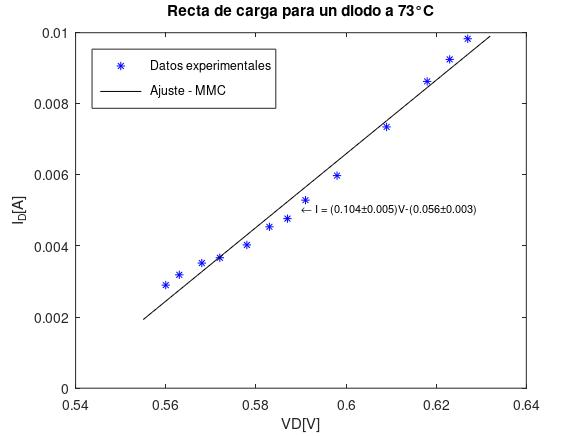
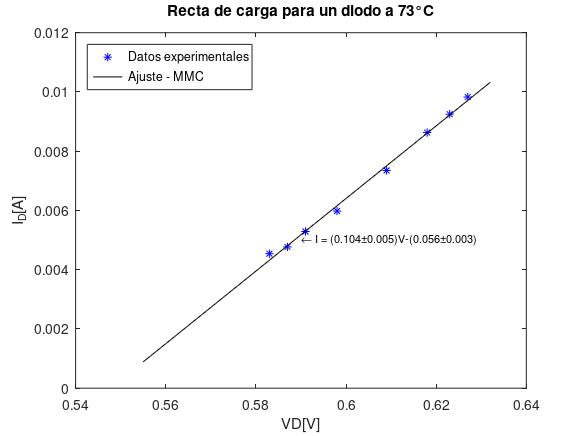
Se realizan correcciones practica 4 EA. Se finalizan metodos 2 y 3 practica 3 EFM para el caso 365 parte 1.

diff --git a/EFM20212/3/parte1/365/metodo3.m b/EFM20212/3/parte1/365/metodo3.m
@@ -1,0 +1,57 @@
+clear all; close all;
+Vr = [0	0	-0.02	-0.04	-0.04	-0.06	-0.07	-0.09	-0.09	-0.11	-0.11	-0.13	-0.14	-0.15	-0.17	-0.19	-0.2	-0.22	-0.23	-0.24	-0.25	-0.25	-0.26	-0.27	-0.27	-0.28	-0.29	-0.3	-0.31	-0.32	-0.33	-0.34	-0.34	-0.35	-0.35	-0.35	-0.36	-0.36	-0.37	-0.38	-0.38	-0.38	-0.39	-0.39	-0.41	-0.41	-0.42	-0.43	-0.43	-0.45	-0.46	-0.46	-0.46	-0.47	-0.47	-0.48	-0.5	-0.51	-0.51	-0.52	-0.52	-0.53	-0.54	-0.55	-0.56	-0.57	-0.57	-0.58	-0.59	-0.6	-0.61	-0.62	-0.63	-0.64	-0.65	-0.66	-0.67	-0.68	-0.68	-0.69	-0.7	-0.71	-0.72	-0.72	-0.73	-0.74	-0.75	-0.76	-0.77	-0.78	-0.79	-0.79	-0.8	-0.81	-0.82	-0.83	-0.84	-0.85	-0.86	-0.87	-0.88	-0.9	-0.91	-0.92	-0.93	-0.95	-0.96	-0.97	-0.98	-0.99	-1	-1.02	-1.03	-1.04	-1.05	-1.06	-1.07	-1.09	-1.1	-1.11	-1.12	-1.13	-1.14	-1.16	-1.18	-1.19	-1.19	-1.19	-1.2	-1.21	-1.23	-1.24	-1.25	-1.26	-1.26	-1.28	-1.29	-1.3	-1.31	-1.32	-1.34	-1.36	-1.37	-1.38	-1.39	-1.4	-1.41	-1.43	-1.44	-1.45	-1.46	-1.47	-1.49	-1.5	-1.5	-1.51	-1.52	-1.53	-1.55	-1.55	-1.57	-1.58	-1.59	-1.6	-1.6	-1.61	-1.62	-1.63	-1.65	-1.66	-1.67	-1.68	-1.69	-1.71	-1.72	-1.74	-1.76	-1.77	-1.79	-1.8	-1.82	-1.84	-1.85	-1.87	-1.88	-1.9	-1.91	-1.92	-1.95	-1.96	-1.97	-1.98	-1.99	-2.01	-2.02	-2.04	-2.05	-2.06	-2.08	-2.09	-2.11	-2.12	-2.14	-2.16	-2.17	-2.18	-2.19	-2.22	-2.23	-2.25	-2.26	-2.27	-2.29	-2.3	-2.31	-2.33	-2.34	-2.36	-2.37	-2.39	-2.39	-2.41	-2.42	-2.44	-2.45	-2.47	-2.49	-2.5	-2.52	-2.53	-2.56	-2.56	-2.58	-2.6	-2.61	-2.63	-2.64	-2.66	-2.67	-2.69	-2.7	-2.72	-2.74	-2.76	-2.77	-2.78	-2.8	-2.81	-2.83	-2.83	-2.85	-2.86	-2.88	-2.9	-2.92	-2.94	-2.95	-2.98	-2.98	-3	-3.02	-3.03	-3.05	-3.06	-3.08	-3.09	-3.1	-3.12	-3.13	-3.14	-3.16	-3.17	-3.18	-3.18	-3.2	-3.21	-3.23	-3.23	-3.25	-3.26	-3.28	-3.3	-3.31	-3.33	-3.35	-3.36	-3.37	-3.38	-3.4	-3.41	-3.43	-3.44	-3.45	-3.48	-3.49	-3.51	-3.52	-3.54	-3.56	-3.57	-3.58	-3.59	-3.61	-3.61	-3.63	-3.64	-3.66	-3.68	-3.69	-3.71	-3.72	-3.74	-3.75	-3.77	-3.78	-3.8	-3.81	-3.83	-3.84	-3.86	-3.87	-3.89	-3.91	-3.93	-3.94	-3.96	-3.97];
+I  = [94.9	94.5	93	91	90.2	87	86.8	85.5	84.3	83.7	82.9	82	80.9	79.4	78.9	76.6	75.6	74.1	72.9	71.9	71.3	70.5	69.5	68.9	68.6	68.1	67.2	66.6	65.3	64.9	64.3	63.3	62.5	61.9	61.5	61.2	60.8	60.7	60.5	59.7	59.4	58.5	58.8	58.4	57.5	56.2	56.2	55.6	55.1	54.2	52.8	52.8	53	52	51.7	51.4	50.4	49.8	49.2	48.5	47.9	47.6	46.9	46	46	45.3	44.8	44	43.6	43	42.5	41.3	41.3	40.4	39.9	38.9	38.1	38.1	37.4	37	36.8	35.5	34.9	34.6	34.2	33.7	33.1	33.5	32	30.9	30.4	30.2	30.1	29.5	29	27.8	27.9	27.1	26.6	26	25.3	24.7	24	23.2	22.8	22.1	21.1	20.7	20.3	19.6	19.1	18.1	17.2	16.8	16.3	15.9	15.4	14.4	13.7	13.4	13.2	12.7	12.3	11.3	10.5	10.2	10.1	10.2	10.1	9.4	8.9	8.6	8.5	8.4	8.1	7.8	7.1	6.8	6.8	6.8	6.3	5.5	5.3	5	4.7	4.4	4.1	3.8	3.4	3.2	3.2	3	2.7	2.5	2.5	2.3	2.1	1.9	1.7	1.6	1.5	1.3	1.2	1.1	1	1	0.9	1	0.8	0.6	0.5	0.4	0.3	0.1	0	0	-0.1	-0.2	-0.3	-0.3	-0.3	-0.4	-0.4	-0.6	-0.4	-0.5	-0.5	-0.5	-0.6	-0.5	-0.6	-0.5	-0.5	-0.6	-0.4	-0.6	-0.6	-0.5	-0.6	-0.5	-0.6	-0.5	-0.6	-0.7	-0.6	-0.7	-0.6	-0.6	-0.7	-0.6	-0.6	-0.6	-0.6	-0.6	-0.4	-0.6	-0.5	-0.7	-0.6	-0.4	-0.3	-0.1	-0.5	-0.6	-0.7	-0.5	-0.7	-0.7	-0.8	-0.6	-0.5	-0.6	-0.7	-0.6	-0.5	-0.7	-0.6	-0.7	-0.6	-0.6	-0.6	-0.8	-0.6	-0.7	-0.7	-0.7	-0.7	-0.6	-0.8	-0.7	-0.7	-0.7	-0.6	-0.8	-0.6	-0.7	-0.6	-0.7	-0.7	-0.7	-0.7	-0.6	-0.8	-0.6	-0.7	-0.7	-0.7	-0.7	-0.7	-0.7	-0.7	-0.6	-0.7	-0.6	-0.7	-0.7	-0.7	-0.7	-0.7	-0.7	-0.6	-0.7	-0.7	-0.8	-0.7	-0.7	-0.8	-0.7	-0.7	-0.8	-0.7	-0.7	-0.6	-0.7	-0.7	-0.8	-0.8	-0.7	-0.7	-0.6	-0.6	-0.6	-0.8	-0.7	-0.7	-0.7	-0.7	-0.7	-0.7	-0.7	-0.7	-0.7	-0.6	-0.8	-0.7	-0.7	-0.5	-0.7	-0.7	-0.7	-0.6	-0.5	-0.6	-0.4	-0.3	-0.3	-0.3];
+%%%%%%%%%%%%%%%%%%%%%%%%%%Se calcula la derivada como la diferencia entre las corrientes sobre la diferencia de voltajes. Como se usa el paso siguiente, el vector tendra un tamanho...
+%%%%%%%%%%%%%%%%%%%%%%%%%%... N-1 del vector original. Se ajuste Vr de acuerdo a esa necesidad.
+for i = 1:(length(I)-3)
+  didv(i) = (I(i+3)-I(i))/(Vr(i+3)-Vr(i));
+end
+didv
+
+Vrdidv=Vr(1:length(didv));
+volmax = -1.65; %%%%%%%%%%%%%%%%%%%% <----------------SELECCIONAR el valor de voltaje hasta el que se considera, inicialmente, que didv esta en 0
+N=find(Vr == volmax);
+%%%%Se genera dos vectores con la region considerada en que la derivada es 0.
+x0 = Vrdidv(N:length(Vrdidv));y0 = didv(N:length(didv));
+%%%%Se genera dos vectores con la region considerada en que la derivada no es 0.
+xn0 = Vrdidv(1:N-1);yn0 = didv(1:N-1);
+
+figure(1); clf; % se plotea la grafica original, la derivada, y las dos regiones de interes (donde la derivada es 0 y donde no)
+subplot(4,1,1); plot(Vr,I,'r.'); axis([-4 0 -10 100]);grid on;xlabel('V_{r}[V]');ylabel('I[A]');legend('Datos Experimentales','Location','northwest');title('Relacion de I en funcion de V_{r}')
+subplot(4,1,2); plot(Vrdidv,didv,'r.');grid on;xlabel('V_{r}[V]');ylabel('I[A]');legend('Datos Calculados','Location','northwest');title('Derivada de I en funcion de V_{r}')
+subplot(4,1,3); plot(x0,y0,'m.'); axis([-4 0 -50 200]);grid on;xlabel('V_{r}[V]');ylabel('I[A]');legend('Datos Calculados','Location','northwest');title('Region considerada de pendiente 0')
+subplot(4,1,4); plot(xn0,yn0,'c.'); axis([-4 0 -50 200]);grid on;xlabel('V_{r}[V]');ylabel('I[A]');legend('Datos Calculados','Location','northwest');title('Region considerada de pendiente diferente de 0')
+
+%%%%%%%%%%%%%%%%%%%%Minimos cuadrados para x0,y0
+didv
+size(x0)
+size(y0)
+N0 = size(x0)(2)
+sx0y0 = sum(x0.*y0)
+sx0x0 = sum(x0.*x0);sy0y0 = sum(y0.*y0);sx0 = sum(x0);sy0 = sum(y0);
+a0 = (((N0)*(sx0y0))-((sx0)*(sy0)))/(((N0)*(sx0x0))-((sx0)*(sx0)))
+b0 = (((sx0x0)*(sy0))-((sx0)*(sx0y0)))/(((N0)*(sx0x0))-((sx0)*(sx0)))
+e0 = (y0-((a0*x0)+b0)).^2;sei0 = sum(e0);
+deltaa0=sqrt((sei0)/(N0-2))*sqrt((N0)/(((N0)*(sx0x0))-((sx0)*(sx0))))
+deltab0=sqrt((sei0)/(N0-2))*sqrt((sx0x0)/(((N0)*(sx0x0))-((sx0)*(sx0))))
+r0 = (((N0)*(sx0y0))-((sx0)*(sy0)))/(sqrt(((N0)*(sx0x0))-((sx0)*(sx0)))*sqrt(((N0)*(sy0y0))-((sy0)*(sy0))))
+
+%%%%%%%%%%%%%%%%%%%%Minimos cuadrados para xn0,yn0
+size(xn0)
+size(yn0)
+Nn0 = size(xn0)(2)
+sxn0yn0 = sum(xn0.*yn0);sxn0xn0 = sum(xn0.*xn0);syn0yn0 = sum(yn0.*yn0);sxn0 = sum(xn0);syn0 = sum(yn0);
+a20 = (((Nn0)*(sxn0yn0))-((sxn0)*(syn0)))/(((Nn0)*(sxn0xn0))-((sxn0)*(sxn0)))
+b20 = (((sxn0xn0)*(syn0))-((sxn0)*(sxn0yn0)))/(((Nn0)*(sxn0xn0))-((sxn0)*(sxn0)))
+e20 = (yn0-((a20*xn0)+b20)).^2;sei20 = sum(e20);
+deltaa20=sqrt((sei20)/(Nn0-2))*sqrt((Nn0)/(((Nn0)*(sxn0xn0))-((sxn0)*(sxn0))))
+deltab20=sqrt((sei20)/(Nn0-2))*sqrt((sxn0xn0)/(((Nn0)*(sxn0xn0))-((sxn0)*(sxn0))))
+r20 = (((Nn0)*(sxn0yn0))-((sxn0)*(syn0)))/(sqrt(((Nn0)*(sxn0xn0))-((sxn0)*(sxn0)))*sqrt(((Nn0)*(syn0yn0))-((syn0)*(syn0))))
+
+%%%%%%%%%%%%%%%%%%%%%%%%%Se grafica con los respectivos ajustes y calculo punto interseccion con errores
+Iv0 = (a0*b20-a20*b0)/(a0-a20);v0 = (b20-b0)/(a0-a20)
+deltav0 = -v0*sqrt((deltab20^2)/((b0-b20)^2)+(deltab0^2)/((b0-b20)^2)+(deltaa0^2)/((a0-a20)^2)+(deltaa20^2)/((a0-a20)^2))
+xx1 = -4:0.1:0;yy1 = a0.*xx1+b0;xx2 = -4:0.1:0;yy2 = a20.*xx2+b20;yf3= -10:0.01:Iv0; xf3= v0*ones(1,length(yf3));
+figure(2);clf;
+subplot(2,1,1);plot(x0,y0,'m.',xn0,yn0,'c.',xx1,yy1,'k-','linewidth',1.25,xx2,yy2,'r-'); axis([-4 0 -50 200]);grid on;xlabel('V_{r}[V]');ylabel('I[A]');legend('Datos Calculados pendiente 0','Datos Calculados pendiente diferente de 0','Ajuste de region con pendioente 0','Ajuste de region con pendioente diferente de 0','Location','northwest');title('Ajustes correspondientes a las dos regiones de la pendiente')
+subplot(2,1,2);plot(x0,y0,'m.',xn0,yn0,'c.',xx1,yy1,'k-',xx2,yy2,'r-',xf3,yf3,'g'); axis([-2.2 -1.2 -10 10]);grid on;xlabel('V_{r}[V]');ylabel('I[A]');legend('','','','','V_{0}','Location','southeast');title('Zoom de los ajustes y punto de interseccion')

diff --git a/EFM20212/3/parte1/365/metodo2.m b/EFM20212/3/parte1/365/metodo2.m
@@ -3,83 +3,62 @@ Vr = [0	0	-0.02	-0.04	-0.04	-0.06	-0.07	-0.09	-0.09	-0.11	-0.11	-0.13	-0.14	-0.1
 I  = [94.9	94.5	93	91	90.2	87	86.8	85.5	84.3	83.7	82.9	82	80.9	79.4	78.9	76.6	75.6	74.1	72.9	71.9	71.3	70.5	69.5	68.9	68.6	68.1	67.2	66.6	65.3	64.9	64.3	63.3	62.5	61.9	61.5	61.2	60.8	60.7	60.5	59.7	59.4	58.5	58.8	58.4	57.5	56.2	56.2	55.6	55.1	54.2	52.8	52.8	53	52	51.7	51.4	50.4	49.8	49.2	48.5	47.9	47.6	46.9	46	46	45.3	44.8	44	43.6	43	42.5	41.3	41.3	40.4	39.9	38.9	38.1	38.1	37.4	37	36.8	35.5	34.9	34.6	34.2	33.7	33.1	33.5	32	30.9	30.4	30.2	30.1	29.5	29	27.8	27.9	27.1	26.6	26	25.3	24.7	24	23.2	22.8	22.1	21.1	20.7	20.3	19.6	19.1	18.1	17.2	16.8	16.3	15.9	15.4	14.4	13.7	13.4	13.2	12.7	12.3	11.3	10.5	10.2	10.1	10.2	10.1	9.4	8.9	8.6	8.5	8.4	8.1	7.8	7.1	6.8	6.8	6.8	6.3	5.5	5.3	5	4.7	4.4	4.1	3.8	3.4	3.2	3.2	3	2.7	2.5	2.5	2.3	2.1	1.9	1.7	1.6	1.5	1.3	1.2	1.1	1	1	0.9	1	0.8	0.6	0.5	0.4	0.3	0.1	0	0	-0.1	-0.2	-0.3	-0.3	-0.3	-0.4	-0.4	-0.6	-0.4	-0.5	-0.5	-0.5	-0.6	-0.5	-0.6	-0.5	-0.5	-0.6	-0.4	-0.6	-0.6	-0.5	-0.6	-0.5	-0.6	-0.5	-0.6	-0.7	-0.6	-0.7	-0.6	-0.6	-0.7	-0.6	-0.6	-0.6	-0.6	-0.6	-0.4	-0.6	-0.5	-0.7	-0.6	-0.4	-0.3	-0.1	-0.5	-0.6	-0.7	-0.5	-0.7	-0.7	-0.8	-0.6	-0.5	-0.6	-0.7	-0.6	-0.5	-0.7	-0.6	-0.7	-0.6	-0.6	-0.6	-0.8	-0.6	-0.7	-0.7	-0.7	-0.7	-0.6	-0.8	-0.7	-0.7	-0.7	-0.6	-0.8	-0.6	-0.7	-0.6	-0.7	-0.7	-0.7	-0.7	-0.6	-0.8	-0.6	-0.7	-0.7	-0.7	-0.7	-0.7	-0.7	-0.7	-0.6	-0.7	-0.6	-0.7	-0.7	-0.7	-0.7	-0.7	-0.7	-0.6	-0.7	-0.7	-0.8	-0.7	-0.7	-0.8	-0.7	-0.7	-0.8	-0.7	-0.7	-0.6	-0.7	-0.7	-0.8	-0.8	-0.7	-0.7	-0.6	-0.6	-0.6	-0.8	-0.7	-0.7	-0.7	-0.7	-0.7	-0.7	-0.7	-0.7	-0.7	-0.6	-0.8	-0.7	-0.7	-0.5	-0.7	-0.7	-0.7	-0.6	-0.5	-0.6	-0.4	-0.3	-0.3	-0.3];
 
 volmax = -1.72; %%%%%%%%%%%%%%%%%%%% se selecciona el valor de voltaje hasta el que se considera, inicialmente, que esta el 0
-N=find(Vr == volmax);
-n = 0; x(1) = 0; y(1) = 0;
+N=find(Vr == volmax); n = 0; x(1) = 0; y(1) = 0;
 for n = N:size(Vr,2)
   x(n-(N-1)) = Vr(n);
   y(n-(N-1)) = I(n);
 end
 
 prom=mean(y)
-destan=std(y)
+destan=std(y) 
 size(y,2)
-xx = -4:1:0;
-yysup = (prom+3*destan)*ones(1,5);
-yyprom = (prom)*ones(1,5);
-yyinf = (prom-3*destan)*ones(1,5);
+
+xx = -4:1:0; Iinf =prom-3*destan; Iprom=prom; Isup= prom+3*destan; 
+yysup = Isup*ones(1,5);
+yyprom = Iprom*ones(1,5);
+yyinf = Iinf*ones(1,5);
 
 volmin = -0.65; %%%%%%%%%%%%%%%%%%%% se selecciona el valor de voltaje desde el que se considera, inicialmente, que la pendiente es constante y != 0
-in=find(Vr == volmin);
-x2 = Vr(3:in);
-y2 = I(3:in);
+in=find(Vr == volmin); x2 = Vr(3:in); y2 = I(3:in);
 
+%%%%%%%%%%%%%%%%%%%%%%%%%%%%%%%%%%%%%%%%%%%Minimos Cuadrados %%%%%%%%%%%%%%%%%%%%%%%%%%%%%%%%%%%%%%%%%%%%%%
 size(x2)
 size(y2)
 Nin = size(x2)(2)
-
 format long
-sx2y2 = sum(x2.*y2);
-sx2x2 = sum(x2.*x2);
-sy2y2 = sum(y2.*y2);
-sx2 = sum(x2);
-sy2 = sum(y2);
+sx2y2 = sum(x2.*y2); sx2x2 = sum(x2.*x2); sy2y2 = sum(y2.*y2); sx2 = sum(x2); sy2 = sum(y2);
 a = (((Nin)*(sx2y2))-((sx2)*(sy2)))/(((Nin)*(sx2x2))-((sx2)*(sx2)))
 b = (((sx2x2)*(sy2))-((sx2)*(sx2y2)))/(((Nin)*(sx2x2))-((sx2)*(sx2)))
-e = (y2-((a*x2)+b)).^2;
-sei = sum(e);
+e = (y2-((a*x2)+b)).^2; sei = sum(e);
 iNincertidumbrea=sqrt((sei)/(Nin-2))*sqrt((Nin)/(((Nin)*(sx2x2))-((sx2)*(sx2))))
 iNincertidumbreb=sqrt((sei)/(Nin-2))*sqrt((sx2x2)/(((Nin)*(sx2x2))-((sx2)*(sx2))))
 r = (((Nin)*(sx2y2))-((sx2)*(sy2)))/(sqrt(((Nin)*(sx2x2))-((sx2)*(sx2)))*sqrt(((Nin)*(sy2y2))-((sy2)*(sy2))))
 
-%xf1= -1.76*ones(1,23);
-%yf1= -1.2:0.1:1;
-%xf2= -1.74*ones(1,23);
-%yf2= -1.2:0.1:1;
-%xf3= -1.72*ones(1,23);
-%yf3= -1.2:0.1:1;
+%%%%%%%%%%%%%%%%%%%%%%%%%%%%%%%%%%%%%%%%%%%%%%%%%%%%%%%%%%%%%%%%%%%%%%%%%%%%%%%%%%%%%%%%%%%%%%%%%%%%%%%%%%%%
+Voinf = (Isup-b)/(a);Vo = (Iprom-b)/(a);Vosup = (Iinf-b)/(a);
+yf1= -1.2:0.01:Isup;
+xf1= Voinf*ones(1,length(yf1));
+yf2= -1.2:0.01:Iprom;
+xf2= Vo*ones(1,length(yf2));
+yf3= -1.2:0.01:Iinf;
+xf3= Vosup*ones(1,length(yf3));
+xx2 = -1.2:0.01:1;
+yy2 = a.*xx2+b; %vectores para graficar la recta del ajuste, para evidenciar el corte con el eje I=0 en la grafica inicial (1) 
+
 figure(1);clf;
-%%%%%%%%%%%%%%%%%%%%%%%%%%%%%%%%%%%%%%%%%%%%%%%%%%%%%%%%%%%%%%%%%%%%%%
-subplot(2,2,1:2)
-plot (Vr,I,'r.');grid on;
-xlabel('V_{r}[V]');ylabel('I[A]');
-legend('Datos Experimentales','Location','northwest')
-title('Relacion de I en funcion de V_{r}')
-%%%%%%%%%%%%%%%%%%%%%%%%%%%%%%%%%%%%%%%%%%%%%%%%%%%%%%%%%%%%%%%%%%%%%%
-subplot(2,2,3:4)
-plot (x2,y2,'c.');grid on;
-axis([-4 0 -20 100])
-xlabel('V_{r}[V]');ylabel('I[A]');
-legend('Datos Experimentales','Location','northwest')
-%title('Primera consideracion de puntos como I=0')
+subplot(2,2,1:2);plot (Vr,I,'r.');grid on;xlabel('V_{r}[V]');ylabel('I[A]');legend('Datos Experimentales','Location','northwest');title('Relacion de I en funcion de V_{r}')
+subplot(2,2,3:4);plot (x2,y2,'c.');grid on;axis([-4 0 -20 100]);xlabel('V_{r}[V]');ylabel('I[A]');legend('Datos Experimentales','Location','northwest'); title('Primera consideracion de region con pendiente constante')
 
 figure(2);clf;
-%%%%%%%%%%%%%%%%%%%%%%%%%%%%%%%%%%%%%%%%%%%%%%%%%%%%%%%%%%%%%%%%%%%%%%
-subplot(2,1,1)
-plot (Vr,I,'r.',xx,yysup,'m-',xx,yyprom,'b-',xx,yyinf,'m-');grid on;
-axis([-4 0 -20 100])
-title('A)')
-xlabel('V_{r}[V]');ylabel('I[A]');
-legend('Datos Experimentales','I_{prom}+3\sigma','I_{prom}','I_{prom}-3\sigma','Location','northwest')
-%%%%%%%%%%%%%%%%%%%%%%%%%%%%%%%%%%%%%%%%%%%%%%%%%%%%%%%%%%%%%%%%%%%%%%
-subplot(2,1,2)
-plot (Vr,I,'r.',xx,yysup,'m-',xx,yyprom,'b-',xx,yyinf,'m-');grid on;
-title('B)')
-xlabel('V_{r}[V]');ylabel('I[A]');
-axis([-4 0 -1.4 0])
-%%%%%%%%%%%%%%%%%%%%%%%%%%%%%%%%%%%%%%%%%%%%%%%%%%%%%%%%%%%%%%%%%%%%%%
-%figure(3);clf;
-%plot (Vr,I,'r*',xx,yysup,'m-',xx,yyprom,'b-',xx,yyinf,'m-',xf1,yf1,'g',xf2,yf2,'k',xf3,yf3,'g');grid on;
-%title('C)')
-%axis([-1.885 -1.6 -1.2 1.1])
-%xlabel('V_{r}[V]');ylabel('I[A]');
-%legend('Datos Experimentales','I_{prom}+3\sigma','I_{prom}','I_{prom}-3\sigma','V_{o-sup}','V_{o}','V_{o-inf}','Location','northwest')
+subplot(2,1,1); plot (Vr,I,'r.',xx,yysup,'m-',xx,yyprom,'b-',xx,yyinf,'m-');grid on; axis([-4 0 -20 100]);title('A)');xlabel('V_{r}[V]');ylabel('I[A]');legend('Datos Experimentales','I_{prom}+3\sigma','I_{prom}','I_{prom}-3\sigma','Location','northwest')
+subplot(2,1,2); plot (Vr,I,'r.',xx,yysup,'m-',xx,yyprom,'b-',xx,yyinf,'m-');grid on; title('B)'); xlabel('V_{r}[V]');ylabel('I[A]');axis([-4 0 -1.4 0])
+
+figure(3); clf;
+plot(xx2,yy2,'k-',xx,yysup,'m-',xx,yyprom,'b-',xx,yyinf,'m-',xf1,yf1,'g',xf2,yf2,'c',xf3,yf3,'g');grid on; axis([-1.12 -1.09 -1.2 0]);xlabel('Corriente de electrones, I[u.a]');ylabel('Potencial de retardo, V[V]'); title('Curva I vs V caracteristica'); legend('Ajuste MMC','I_{prom}+3\sigma','I_{prom}','I_{prom}-3\sigma','V_{0-inf}','V_{0}','V_{0-sup}','Location','northwest')
+%print -djpeg -r100 grafica_0conajuste.jpg
+Iinf
+Iprom
+Isup
+Voinf
+Vo
+Vosup

diff --git a/Electronica Analogica/Entrega4/54C/Grafica54C.m b/Electronica Analogica/Entrega4/54C/Grafica54C.m
@@ -2,7 +2,7 @@ clear all; close all
 VD = [0.005	0.017	0.027	0.128	0.183	0.282	0.345	0.356	0.37	0.409	0.458	0.472	0.486	0.493	0.507	0.512	0.517	0.518	0.522	0.525	0.537	0.544	0.547	0.55	0.556	0.56	0.562	0.564	0.565	0.569	0.568	0.572	0.576	0.577	0.578	0.579	0.581	0.584	0.586	0.589	0.591	0.592	0.594	0.596	0.597	0.6	0.602	0.604	0.606	0.611	0.612	0.613	0.617	0.619	0.623	0.626	0.627	0.632	0.636	0.638	0.641	0.646	0.647	0.65	0.655	0.657];
 I_D= [0	0	0	0	0	0	5e-05	8e-05	0.00014	0.00028	0.00055	0.00065	0.00077	0.00085	0.00097	0.00104	0.00105	0.00112	0.0012	0.00126	0.00146	0.00158	0.00166	0.00168	0.00176	0.00188	0.00194	0.00204	0.00216	0.00217	0.00223	0.00228	0.00238	0.00248	0.00257	0.00264	0.00273	0.00279	0.00289	0.00298	0.00305	0.00318	0.00329	0.00337	0.00345	0.00356	0.00364	0.00386	0.00406	0.00423	0.00439	0.00454	0.00473	0.00504	0.00537	0.00567	0.00586	0.00627	0.00677	0.00703	0.0073	0.0077	0.00816	0.00861	0.00946	0.00982];
 i = 1; x(1) = 0; y(1) = 0; 
-npend1 = 18; %%%%%%%%%%%%%%%%%%%%% este es el numero de datos para el arreglo - 1
+npend1 = 17; %%%%%%%%%%%%%%%%%%%%% este es el numero de datos para el arreglo - 1
 x0 = size(VD,2)-npend1; 
 for n = x0:size(VD,2) 
   x(i) = VD(n);

diff --git a/Electronica Analogica/Entrega4/73C/Grafica73C.m b/Electronica Analogica/Entrega4/73C/Grafica73C.m
@@ -2,7 +2,7 @@ clear all; close all
 VD = [0.017	0.175	0.23	0.363	0.39	0.402	0.43	0.448	0.471	0.475	0.479	0.488	0.492	0.506	0.509	0.513	0.518	0.524	0.528	0.533	0.537	0.542	0.545	0.548	0.552	0.553	0.558	0.56	0.563	0.568	0.572	0.578	0.583	0.587	0.591	0.598	0.609	0.618	0.623	0.627];
 I_D= [0	0	1e-05	2e-05	2e-05	6e-05	0.00016	0.00024	0.00047	0.00049	0.00058	0.00075	0.00082	0.00106	0.00115	0.00123	0.00135	0.00145	0.00161	0.00173	0.00193	0.00212	0.00223	0.00233	0.00251	0.00256	0.00269	0.0029	0.00319	0.00352	0.00367	0.00403	0.00454	0.00477	0.00529	0.00598	0.00735	0.00863	0.00925	0.00983];
 i = 1; x(1) = 0; y(1) = 0; 
-npend1 = 12; %%%%%%%%%%%%%%%%%%%%% este es el numero de datos para el arreglo - 1
+npend1 = 7; %%%%%%%%%%%%%%%%%%%%% este es el numero de datos para el arreglo - 1
 x0 = size(VD,2)-npend1; 
 for n = x0:size(VD,2) 
   x(i) = VD(n);

diff --git a/Electronica Analogica/Entrega4/0C/Grafica0c.m b/Electronica Analogica/Entrega4/0C/Grafica0c.m
@@ -9,6 +9,7 @@ for n = x0:size(VD,2)
   y(i) = I_D(n);
   i+=1;
 end
+x
 %%%%%%%%%%%%%%%%%%%%%%%%%%%%%%%%%%%%%%%%%%%%%Minimos Cuadrados%%%%%%%%%%%%%%%%%%%%%%%%%%%%%%%%%%%%%%%%%%%%%%%%
 size(x)
 size(y)
